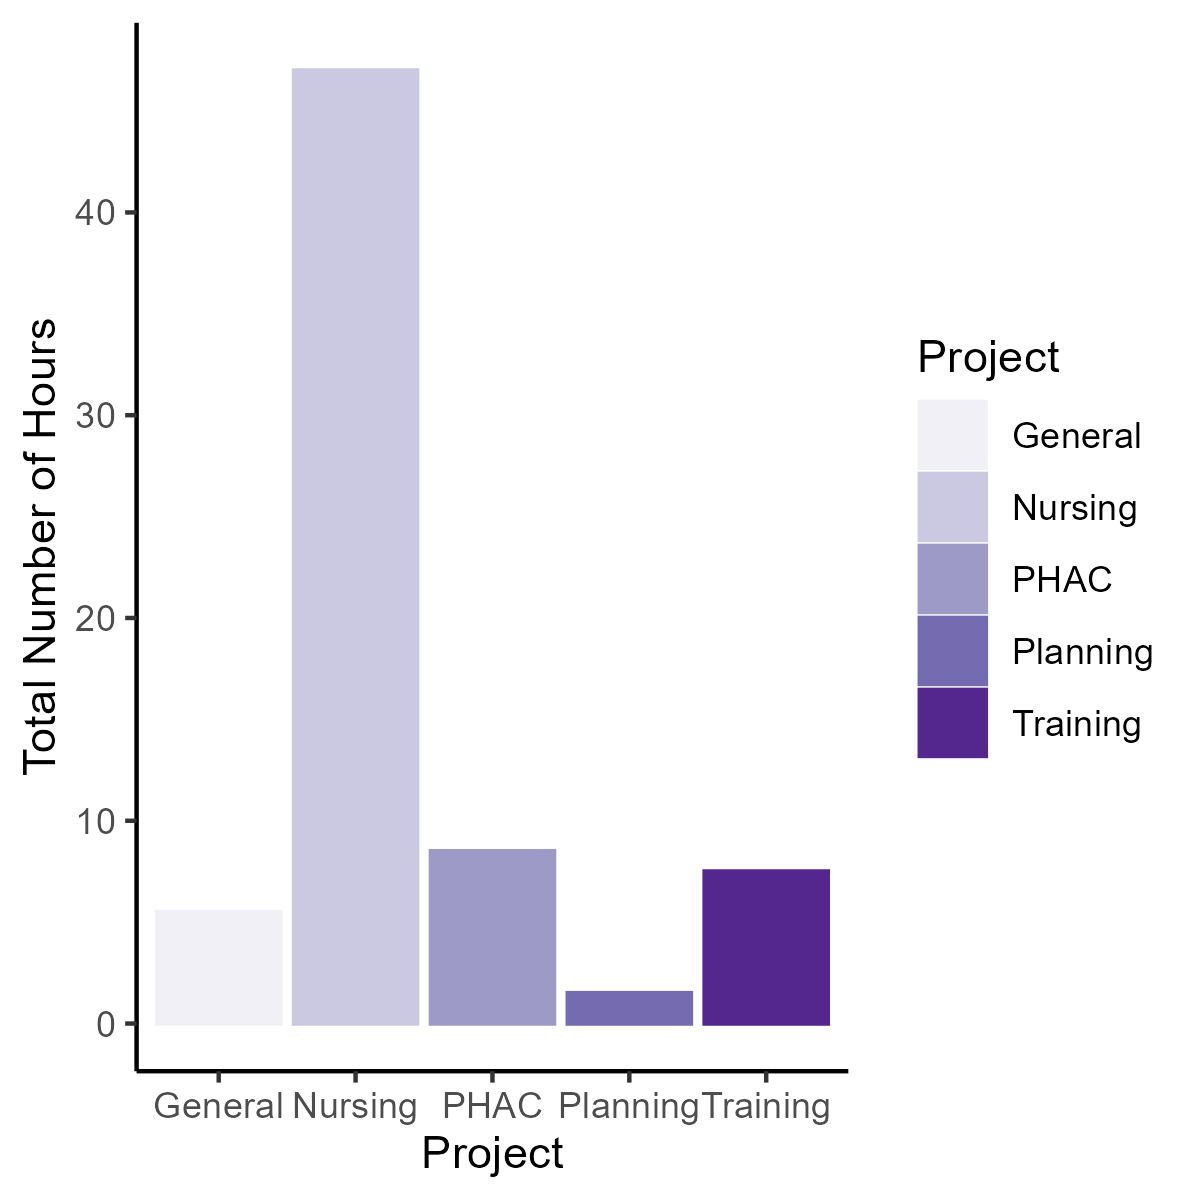
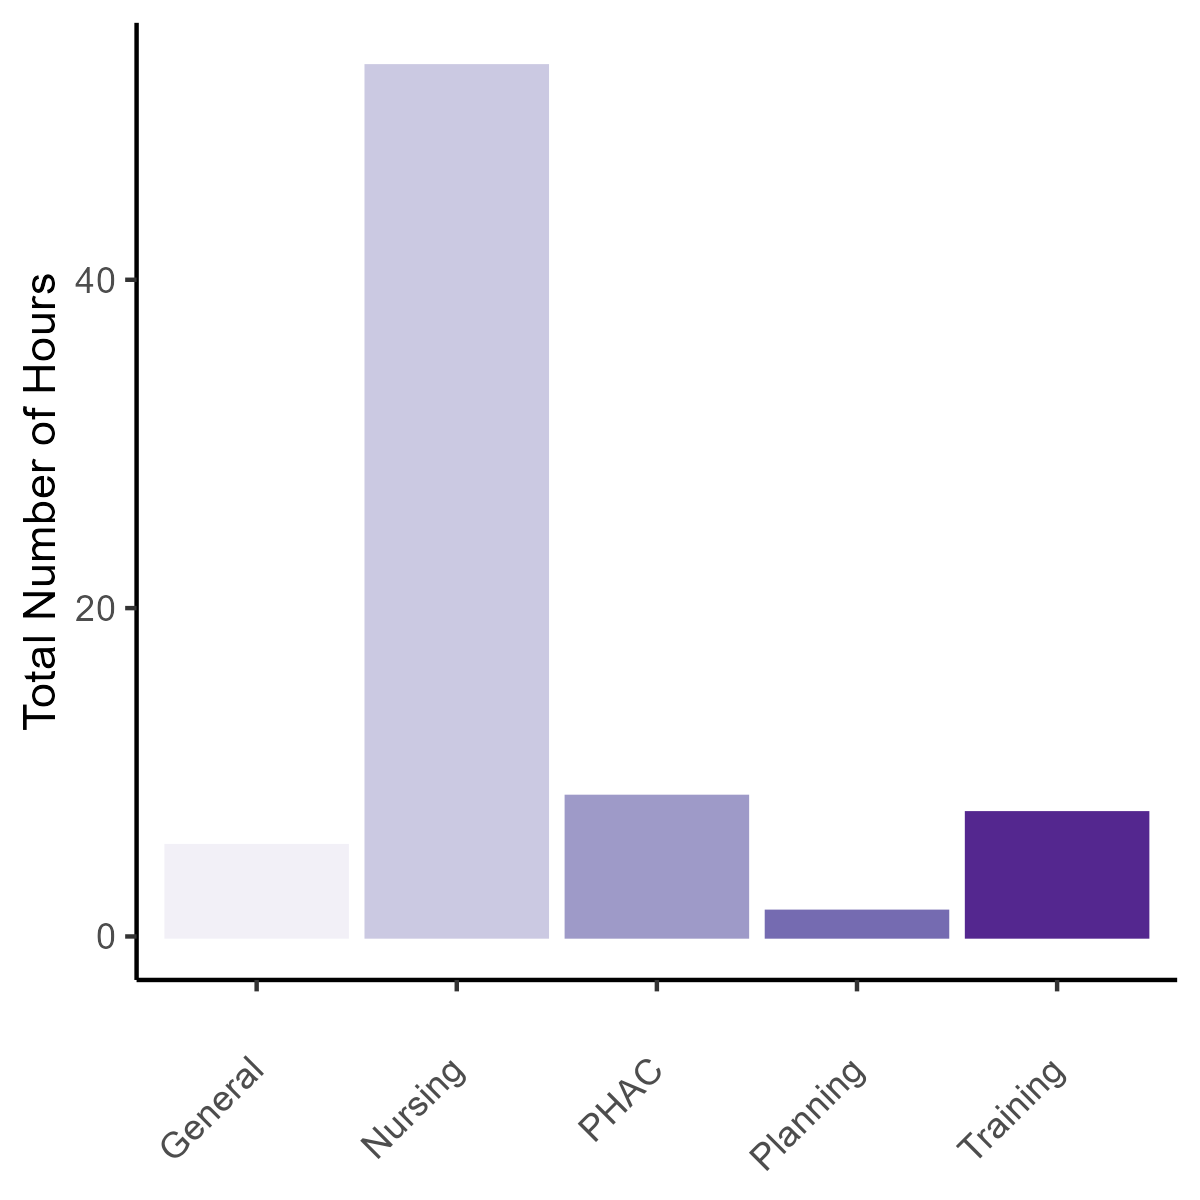
thurs

diff --git a/docs/index.html b/docs/index.html
@@ -1888,6 +1888,13 @@ class="section level3">
 
 </div>
 <table>
+<colgroup>
+<col width="9%" />
+<col width="10%" />
+<col width="6%" />
+<col width="68%" />
+<col width="5%" />
+</colgroup>
 <thead>
 <tr class="header">
 <th align="left">Date</th>
@@ -1898,6 +1905,14 @@ class="section level3">
 </tr>
 </thead>
 <tbody>
+<tr class="odd">
+<td align="left">2024-08-15</td>
+<td align="left">Thursday</td>
+<td align="left">Nursing</td>
+<td align="left">Working on ethics docs, researching spasticity
+measurement tools, making notes</td>
+<td align="right">6</td>
+</tr>
 </tbody>
 </table>
 </div>
@@ -1957,181 +1972,188 @@ class="section level3">
 </thead>
 <tbody>
 <tr class="odd">
+<td align="left">2024-08-15</td>
+<td align="left">Nursing</td>
+<td align="left">Working on ethics docs, researching spasticity
+measurement tools, making notes</td>
+<td align="right">6.0</td>
+</tr>
+<tr class="even">
 <td align="left">2024-08-10</td>
 <td align="left">Nursing</td>
 <td align="left">Improving Qualtrics survey, working on email
 invites.</td>
 <td align="right">4.0</td>
 </tr>
-<tr class="even">
+<tr class="odd">
 <td align="left">2024-08-08</td>
 <td align="left">Nursing</td>
 <td align="left">Making Letters of Informed Consent</td>
 <td align="right">2.0</td>
 </tr>
-<tr class="odd">
+<tr class="even">
 <td align="left">2024-08-06</td>
 <td align="left">Nursing</td>
 <td align="left">Setting up Survey logic in qualtrics</td>
 <td align="right">2.0</td>
 </tr>
-<tr class="even">
+<tr class="odd">
 <td align="left">2024-08-05</td>
 <td align="left">Nursing</td>
 <td align="left">Making the Qualtrics survey for phase 2B</td>
 <td align="right">2.0</td>
 </tr>
-<tr class="odd">
+<tr class="even">
 <td align="left">2024-08-02</td>
 <td align="left">Nursing</td>
 <td align="left">Generating UWO-formatted email invitations and
 reminders.</td>
 <td align="right">3.0</td>
 </tr>
-<tr class="even">
+<tr class="odd">
 <td align="left">2024-07-31</td>
 <td align="left">Nursing</td>
 <td align="left">Reading / Downloading / Organizing papers about
 generating good surveys in qualtrics</td>
 <td align="right">3.0</td>
 </tr>
-<tr class="odd">
+<tr class="even">
 <td align="left">2024-07-29</td>
 <td align="left">Nursing</td>
 <td align="left">Writing drafts of the invitation emails and reminders
 for the various phases of the study.</td>
 <td align="right">2.0</td>
 </tr>
-<tr class="even">
+<tr class="odd">
 <td align="left">2024-07-29</td>
 <td align="left">Nursing</td>
 <td align="left">Watching various videos / reading tutorials about
 generating surveys in qualtrics</td>
 <td align="right">2.0</td>
 </tr>
-<tr class="odd">
+<tr class="even">
 <td align="left">2024-07-27</td>
 <td align="left">Nursing</td>
 <td align="left">Reading / Downloading / Organizing papers about
 post-stroke spasticity.</td>
 <td align="right">4.0</td>
 </tr>
-<tr class="even">
+<tr class="odd">
 <td align="left">2024-07-26</td>
 <td align="left">Nursing</td>
 <td align="left">Reviewing document standards for ethics subissions at
 UWO</td>
 <td align="right">2.0</td>
 </tr>
-<tr class="odd">
+<tr class="even">
 <td align="left">2024-07-25</td>
 <td align="left">Nursing</td>
 <td align="left">Reviewing documents from Amanda</td>
 <td align="right">1.0</td>
 </tr>
-<tr class="even">
+<tr class="odd">
 <td align="left">2024-07-22</td>
 <td align="left">Nursing</td>
 <td align="left">Making combined protocol, adjusting survey
 materials.</td>
 <td align="right">3.0</td>
 </tr>
-<tr class="odd">
+<tr class="even">
 <td align="left">2024-07-19</td>
 <td align="left">Nursing</td>
 <td align="left">Downloading &amp; reading papers about qualitative
 analysis</td>
 <td align="right">2.0</td>
 </tr>
-<tr class="even">
+<tr class="odd">
 <td align="left">2024-07-19</td>
 <td align="left">Nursing</td>
 <td align="left">Editing both QUAL and QUANT surveys to make clear
 points of overlap.</td>
 <td align="right">1.5</td>
 </tr>
-<tr class="odd">
+<tr class="even">
 <td align="left">2024-07-17</td>
 <td align="left">Nursing</td>
 <td align="left">Generating drafts of the survey materials for Phase I
 &amp; II</td>
 <td align="right">3.0</td>
 </tr>
-<tr class="even">
+<tr class="odd">
 <td align="left">2024-07-16</td>
 <td align="left">Nursing</td>
 <td align="left">Researching capturing HCP perspectives, making
 notes</td>
 <td align="right">2.0</td>
 </tr>
-<tr class="odd">
+<tr class="even">
 <td align="left">2024-07-15</td>
 <td align="left">Training</td>
 <td align="left">REDCap training module</td>
 <td align="right">0.5</td>
 </tr>
-<tr class="even">
+<tr class="odd">
 <td align="left">2024-07-15</td>
 <td align="left">Nursing</td>
 <td align="left">Researching Spasticity mechanisms and management</td>
 <td align="right">1.0</td>
 </tr>
-<tr class="odd">
+<tr class="even">
 <td align="left">2024-07-12</td>
 <td align="left">Planning</td>
 <td align="left">Making meeting notes, listing things to make.</td>
 <td align="right">1.0</td>
 </tr>
-<tr class="even">
+<tr class="odd">
 <td align="left">2024-07-11</td>
 <td align="left">General</td>
 <td align="left">Jennet &amp; Amanda - Meeting to touch base &amp; learn
 about WREM</td>
 <td align="right">1.0</td>
 </tr>
-<tr class="odd">
+<tr class="even">
 <td align="left">2024-07-10</td>
 <td align="left">Nursing</td>
 <td align="left">Revising lay summary, drafing project description,
 working on ref automation.</td>
 <td align="right">3.0</td>
 </tr>
-<tr class="even">
+<tr class="odd">
 <td align="left">2024-07-09</td>
 <td align="left">Nursing</td>
 <td align="left">Generating draft of Lay summary, reviewing project
 parameters, reading about spasticity</td>
 <td align="right">1.0</td>
 </tr>
-<tr class="odd">
+<tr class="even">
 <td align="left">2024-07-09</td>
 <td align="left">Nursing</td>
 <td align="left">Improving draft of Lay summary, reading about types of
 nurses and differences in their educational training</td>
 <td align="right">2.0</td>
 </tr>
-<tr class="even">
+<tr class="odd">
 <td align="left">2024-07-08</td>
 <td align="left">General</td>
 <td align="left">Improving time tracking to show ALL historical tasks
 listed specifically + Total time on each project category.</td>
 <td align="right">0.5</td>
 </tr>
-<tr class="odd">
+<tr class="even">
 <td align="left">2024-07-08</td>
 <td align="left">Nursing</td>
 <td align="left">Reading WeRPN + Lawson Grant Materials, Finding /
 downloading / organizing WeRPN references.</td>
 <td align="right">1.5</td>
 </tr>
-<tr class="even">
+<tr class="odd">
 <td align="left">2024-07-05</td>
 <td align="left">PHAC</td>
 <td align="left">Reading papers, learning about the CTAS and ICD codes,
 making notes.</td>
 <td align="right">3.0</td>
 </tr>
-<tr class="odd">
+<tr class="even">
 <td align="left">2024-07-05</td>
 <td align="left">PHAC</td>
 <td align="left">Reading and assessing field-specific standards for data
@@ -2139,83 +2161,83 @@ visualizatioin. Work on code based approach to generate APA-formatted
 tables through R.</td>
 <td align="right">2.5</td>
 </tr>
-<tr class="even">
+<tr class="odd">
 <td align="left">2024-07-03</td>
 <td align="left">PHAC</td>
 <td align="left">Reading grant, sourcing REB docs, sourcing &amp;
 organizing refs in manager, making notes.</td>
 <td align="right">3.0</td>
 </tr>
-<tr class="odd">
+<tr class="even">
 <td align="left">2024-07-02</td>
 <td align="left">Training</td>
 <td align="left">Responsible Conduct of Research - Second half</td>
 <td align="right">1.0</td>
 </tr>
-<tr class="even">
+<tr class="odd">
 <td align="left">2024-07-02</td>
 <td align="left">General</td>
 <td align="left">Upload Certificates to ReDA, emails</td>
 <td align="right">0.5</td>
 </tr>
-<tr class="odd">
+<tr class="even">
 <td align="left">2024-06-29</td>
 <td align="left">Training</td>
 <td align="left">Responsible Conduct of Research - First half of
 module</td>
 <td align="right">1.0</td>
 </tr>
-<tr class="even">
+<tr class="odd">
 <td align="left">2024-06-28</td>
 <td align="left">Training</td>
 <td align="left">Canada GCP - Stage 1 - Basic</td>
 <td align="right">2.0</td>
 </tr>
-<tr class="odd">
+<tr class="even">
 <td align="left">2024-06-28</td>
 <td align="left">Training</td>
 <td align="left">Health Canada Division 5 - Drugs For Clinical Trials
 Involving Human Subjects</td>
 <td align="right">1.0</td>
 </tr>
-<tr class="even">
+<tr class="odd">
 <td align="left">2024-06-27</td>
 <td align="left">General</td>
 <td align="left">Emails, Setting up OneDrive syncing to PC (2FA
 etc.)</td>
 <td align="right">0.5</td>
 </tr>
-<tr class="odd">
+<tr class="even">
 <td align="left">2024-06-26</td>
 <td align="left">Training</td>
 <td align="left">TCPS Modules A1 - A9 (Certificate provided)</td>
 <td align="right">1.0</td>
 </tr>
-<tr class="even">
+<tr class="odd">
 <td align="left">2024-06-25</td>
 <td align="left">General</td>
 <td align="left">Jennet &amp; Amanda - Meeting to touch base</td>
 <td align="right">1.0</td>
 </tr>
-<tr class="odd">
+<tr class="even">
 <td align="left">2024-06-25</td>
 <td align="left">General</td>
 <td align="left">Setup wuo Staff Account / HR Setup / Payroll Setup</td>
 <td align="right">1.0</td>
 </tr>
-<tr class="even">
+<tr class="odd">
 <td align="left">2024-06-25</td>
 <td align="left">General</td>
 <td align="left">Build Time Tracking Tool</td>
 <td align="right">1.0</td>
 </tr>
-<tr class="odd">
+<tr class="even">
 <td align="left">2024-06-25</td>
 <td align="left">Training</td>
 <td align="left">Lawson SOP training module</td>
 <td align="right">1.0</td>
 </tr>
-<tr class="even">
+<tr class="odd">
 <td align="left">2024-06-25</td>
 <td align="left">Planning</td>
 <td align="left">Writing out meeting notes / plans</td>
